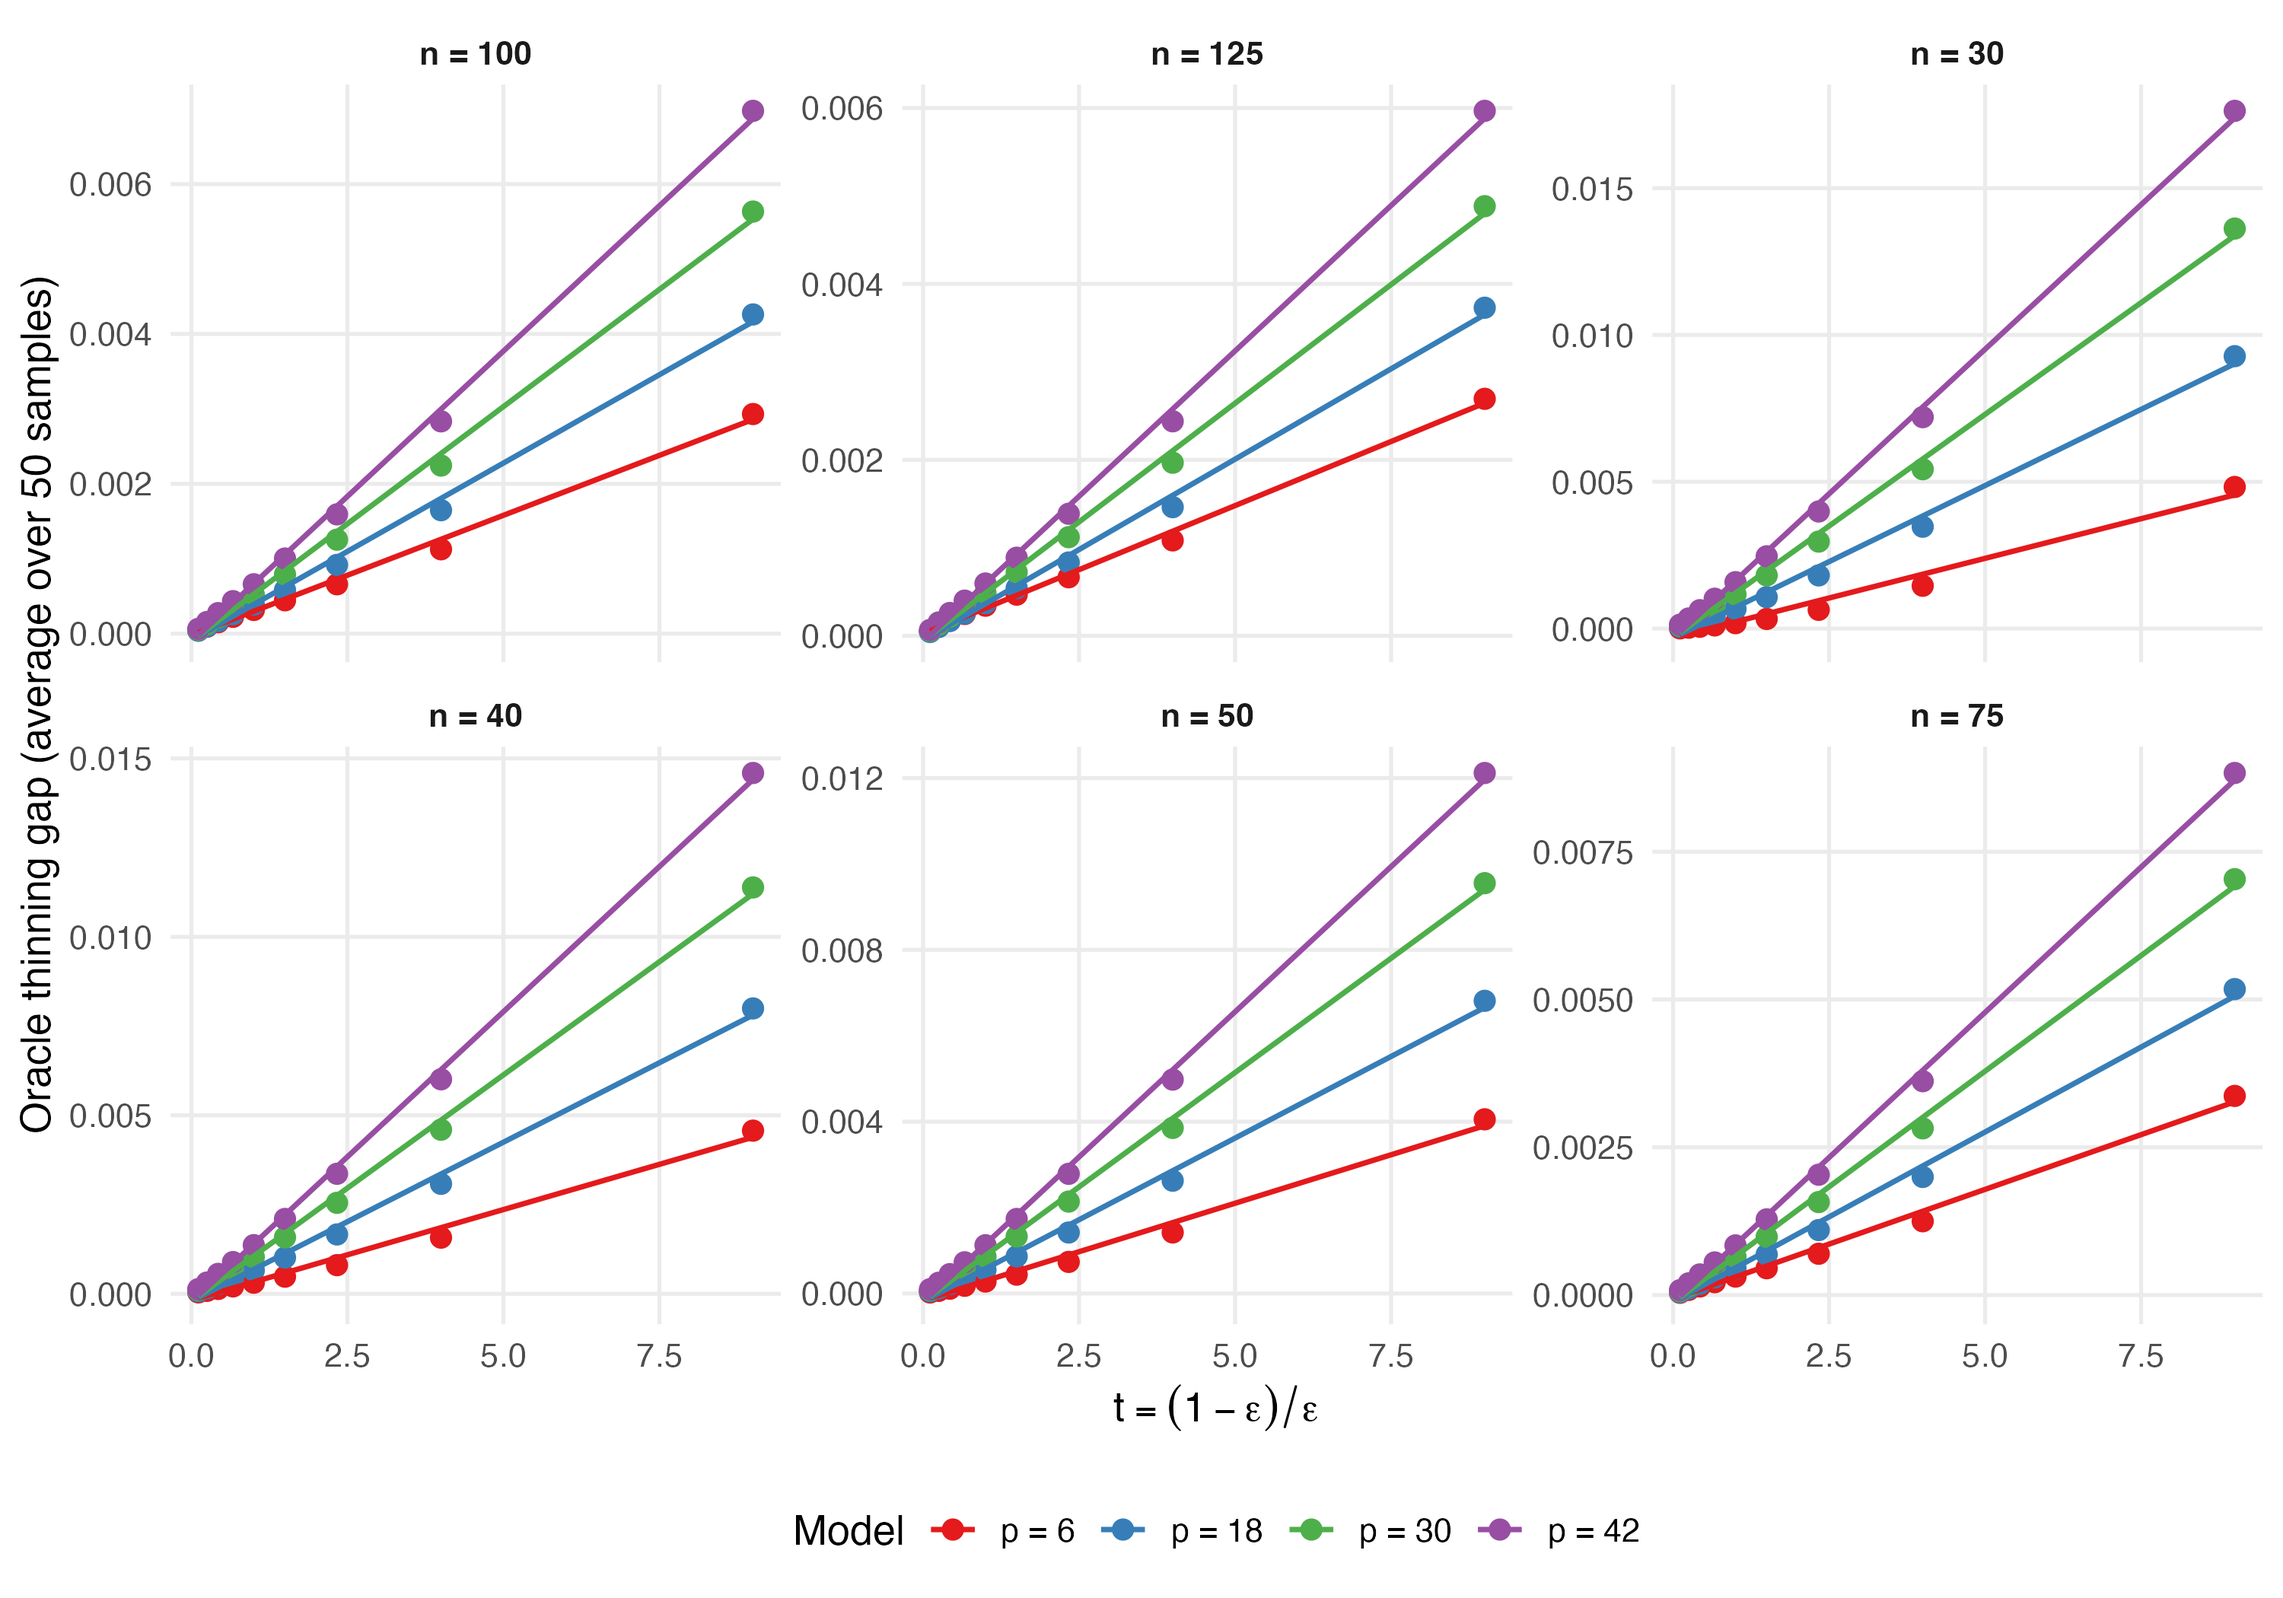
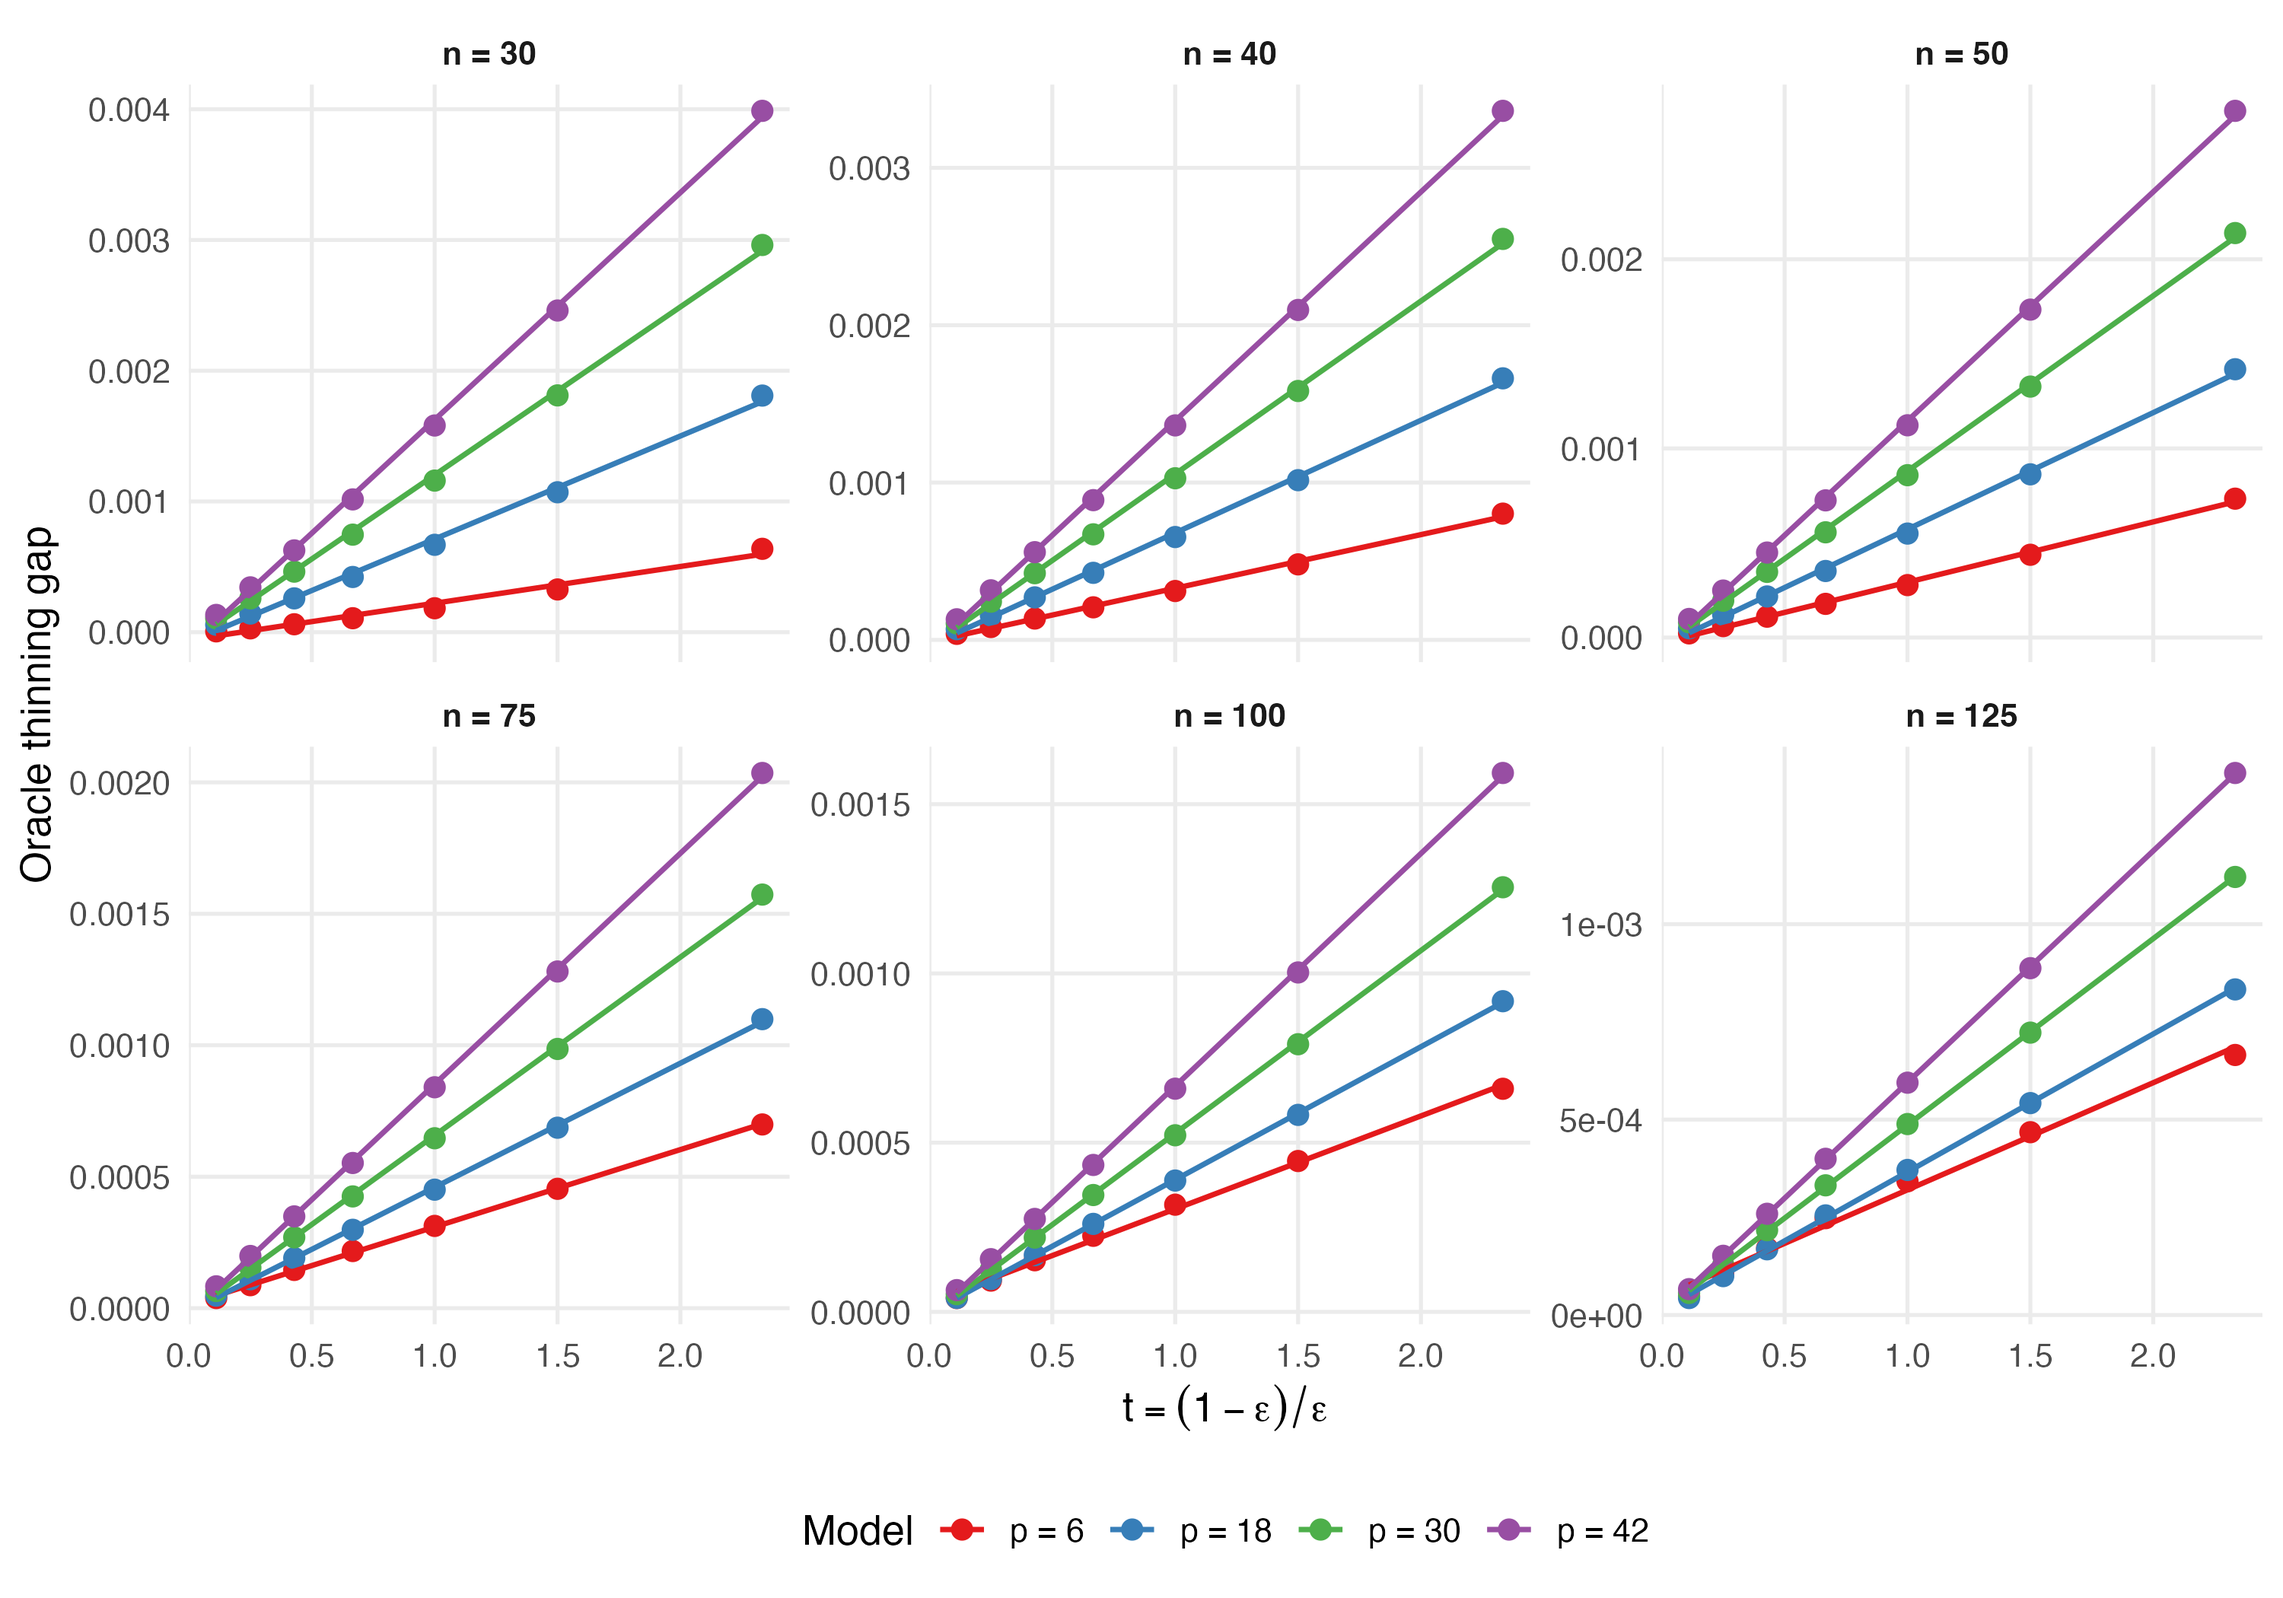
Sync repo for arXiv reproducibility: rename entry points, update analyses
Rename run_equal_allocation.R → main.R and aggregate_equal_allocation.R
→ aggregate_main.R; update README and print messages to match. Tighten
appendix extrapolation to ε ≥ 0.3 range with p = 30 added. Clean up
section2 spatial illustration formatting and figure sizing. Fix .gitignore
(remove quoted path, ignore figure archive dirs). Re-render figures and
re-aggregate methodcomp_results.RDS with ε = 0.6.

diff --git a/README.md b/README.md
@@ -14,11 +14,11 @@ PPS sampling (`sim_functions/sampling_and_setup.R`) and fit candidate
 Fay-Herriot models with p ∈ {3, 6, …, 60} Moran's I spatial basis functions
 via Gibbs sampling (`models/spatial_basis_fh.R`).
 
-Two sampling designs are considered. Equal allocation designs (target n_i per
-area: 30, 40, 50, 75, 100, 125) are used to study how the thinning fraction ε and
-number of repeats R affect model selection performance. Proportional-to-population
-allocation designs (0.75%, 1.25%, 1.75% sampling rates) are used to benchmark
-DT against existing methods under realistic sample size variation.
+Equal allocation designs (target n_i per area: 30, 40, 50, 75, 100, 125)
+study how the thinning fraction ε and number of repeats R affect model
+selection performance (Section 6.2). Three proportional allocation designs
+(0.75%, 1.25%, 1.75% sampling rates) benchmark DT against existing methods
+(Section 6.3).
 Horvitz-Thompson direct estimates and design-based variance estimates are
 computed via `survey::svymean()`.
 
@@ -34,9 +34,9 @@ Benchmarks in method comparison:
 | `models/` | Spatial basis Fay-Herriot Gibbs sampler |
 | `core_analysis/` | Paper analysis notebooks and figures (Sections 2–6) |
 | `results_summary/` | Aggregated results (S=50) |
-| `run_equal_allocation.R` | Driver: equal-allocation designs (Section 6.2) |
-| `aggregate_equal_allocation.R` | Aggregates equal-allocation results → `results_summary/` |
-| `run_methodcomp.R` | Driver: proportional-allocation method comparison (Section 6.3) |
+| `main.R` | Driver: setup, fits, DT for 6 EA designs (Sections 2–6.2) |
+| `aggregate_main.R` | Aggregates main results → `results_summary/` |
+| `run_methodcomp.R` | PA method comparison: setup, fits, DT, ESIM (Section 6.3) |
 | `aggregate_methodcomp.R` | Aggregates method comparison results → `results_summary/` |
 
 ## Data
